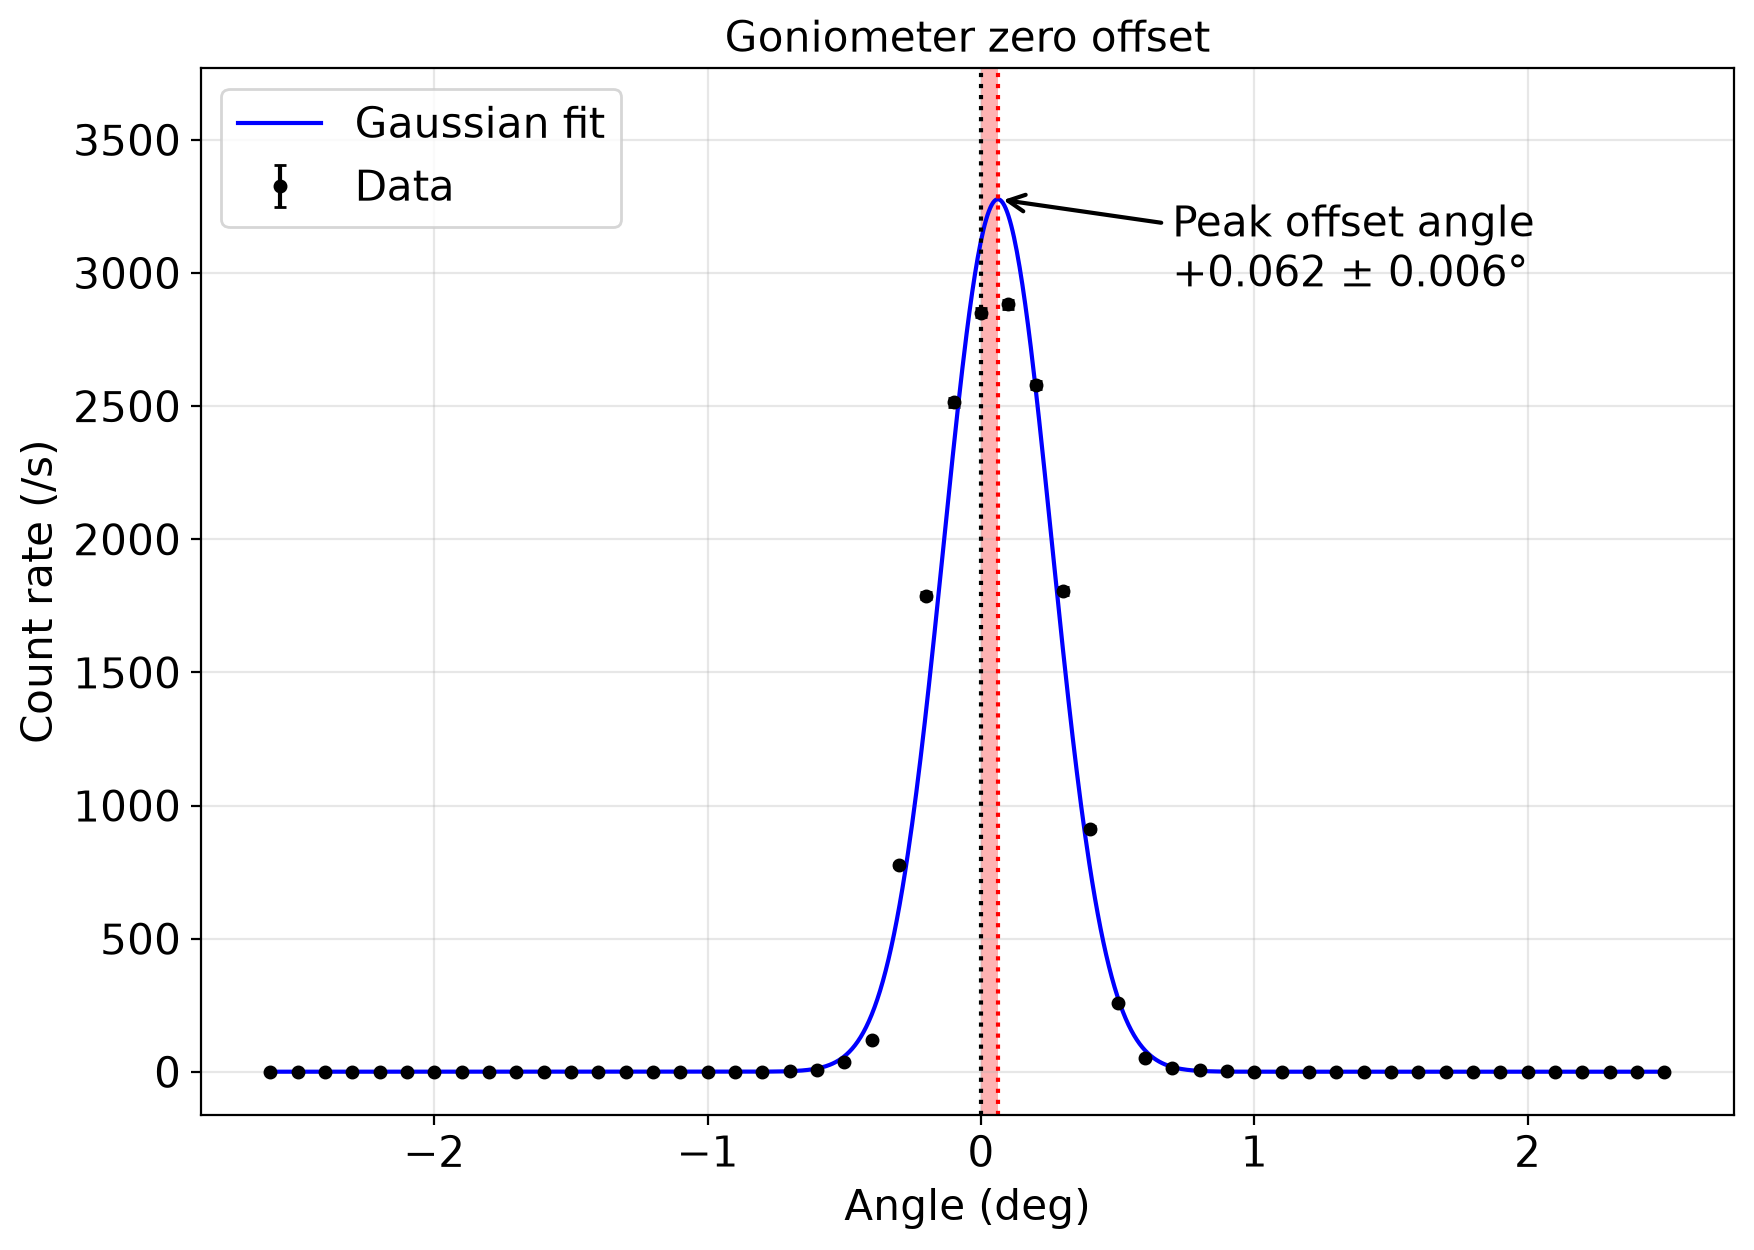
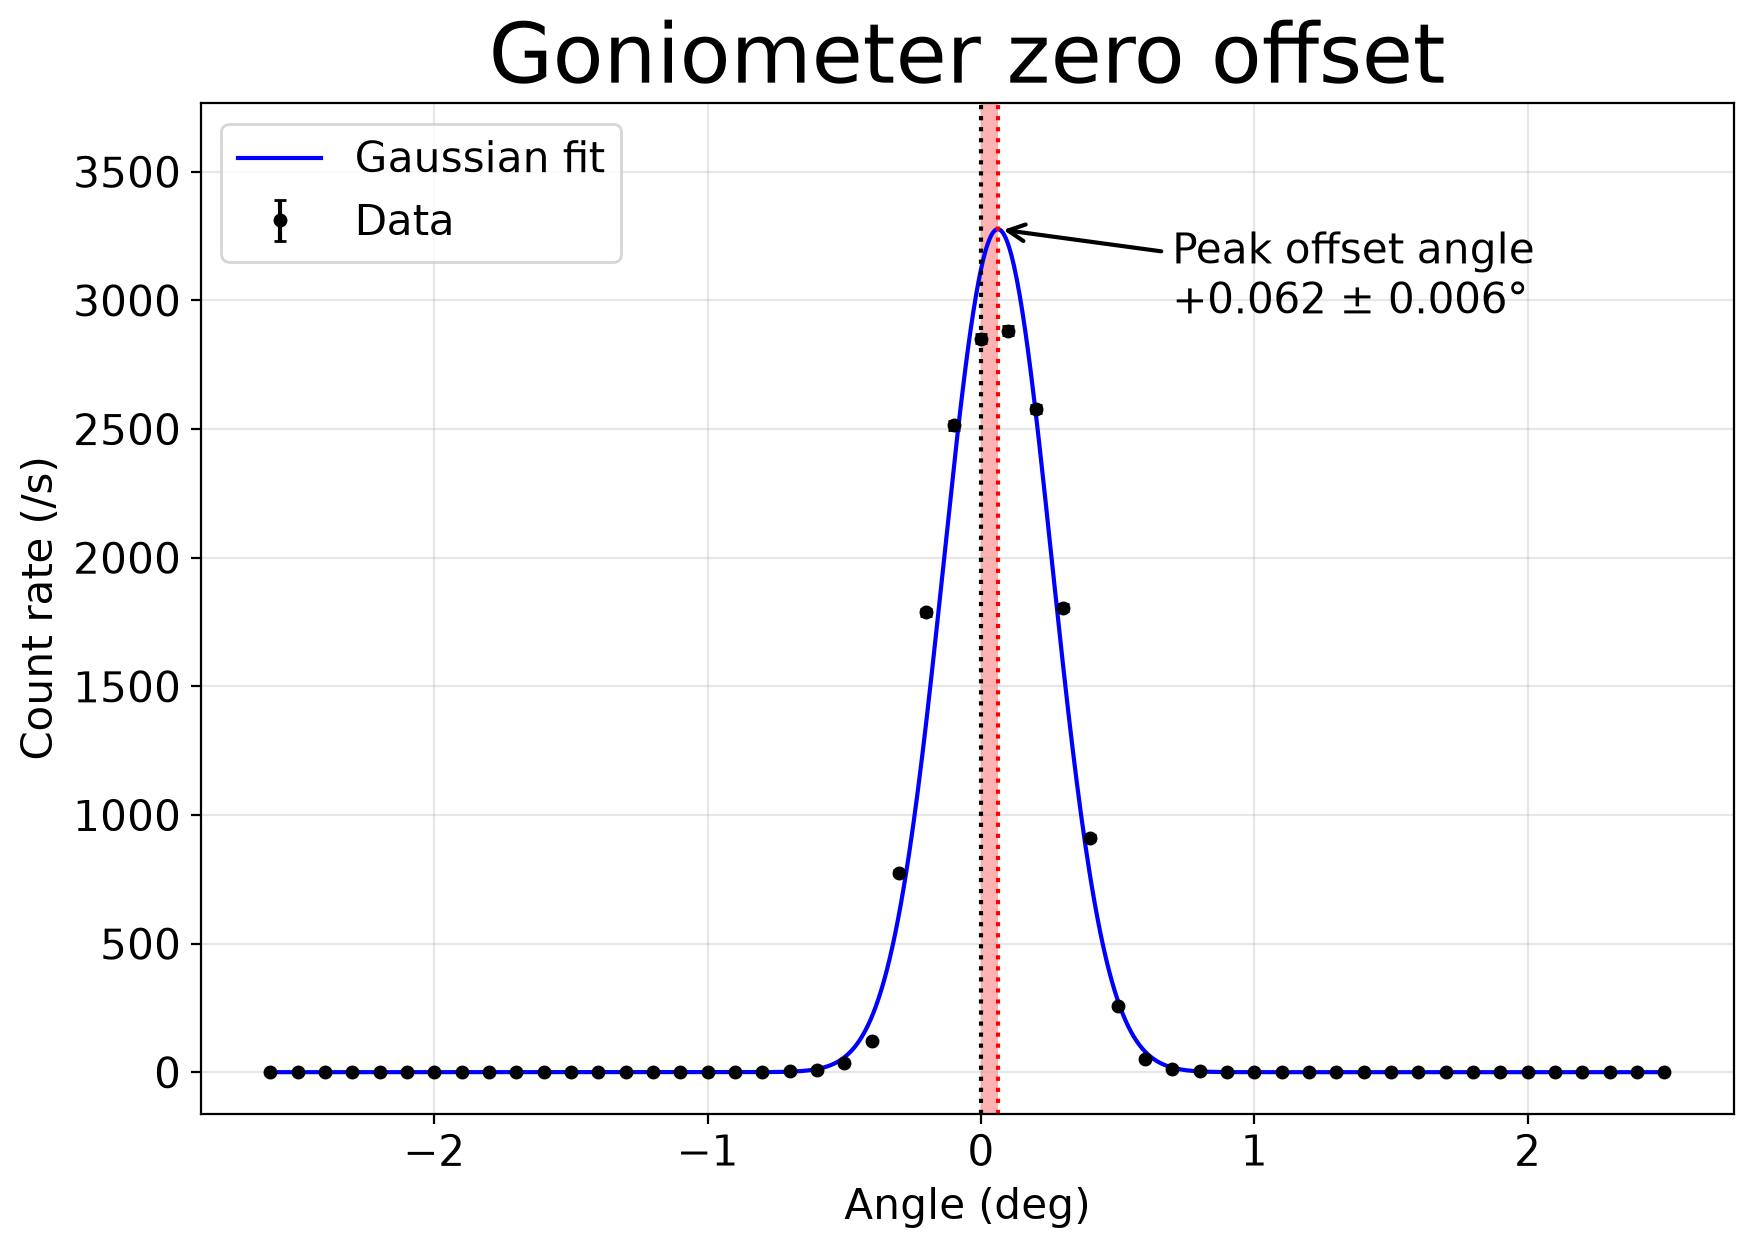
7.0

diff --git a/fits_copy.py b/fits_copy.py
@@ -581,11 +581,14 @@ voigt_chi2 = [{"one Voigt": chi2_dof(voigt, popt_1, peak),
                "two Gaussians": chi2_dof(two_gaussians_fixed_ratio, popt_2g[[0, 1, 4, 2]], peak)}
               for peak, (popt_1, _, popt_2, _), (popt_g, _, _), (popt_2g, _, _, _)
               in zip(peaks["nominal"], voigt_fits, gaussian_fits["nominal"], ratio_fits["nominal"])]
-# Reduced chi^2 of the two-line fits in the order they are plotted (all free, then I2/I1 fixed with a shared width),
-# with its expected scatter sqrt(2/dof)
+# Reduced chi^2 of each fit, with its expected scatter sqrt(2/dof): first the single-line fits (one Gaussian, one
+# Voigt; printed only, not plotted), then the two-line fits in the order they are plotted (all free, then I2/I1 fixed
+# with a shared width)
 for label, peak, (popt_free, _, _), chi2s in zip(order_labels, peaks["nominal"], two_gaussian_fits["nominal"],
                                                  voigt_chi2):
-    for name, (chi2, dof) in [("two Gaussians, all free", chi2_dof(two_gaussians, popt_free, peak)),
+    for name, (chi2, dof) in [("one Gaussian", chi2s["one Gaussian"]),
+                              ("one Voigt", chi2s["one Voigt"]),
+                              ("two Gaussians, all free", chi2_dof(two_gaussians, popt_free, peak)),
                               ("two Gaussians, I2/I1 fixed", chi2s["two Gaussians"]),
                               ("two Voigts, I2/I1 fixed", chi2s["two Voigts"])]:
         print(f"{label}, {name}: chi2/dof = {chi2:.1f}/{dof} = {chi2 / dof:.2f} +/- {np.sqrt(2 / dof):.2f}")

diff --git a/alignment_error.py b/alignment_error.py
@@ -1,6 +1,6 @@
 import numpy as np
 import matplotlib.pyplot as plt
-from save_figure import save_figure, report_style
+from save_figure import save_figure, calib_style
 from peak_overlay import (load, overlay_shift, shift_text, windows, first_order_region, figure_start,
                           plot_pair, shift_box_text)
 
@@ -38,7 +38,7 @@ if __name__ == "__main__":
     # The normal scan and the flipped one from 15.7 deg up, each with a Gaussian fit and its centre marked, neither
     # shifted, and the Kα n=1 overlay shift between them. The flipped crystal reflects much less (its corrected peak
     # is ~2.3x lower despite 1 vs 0.6 mA), so the normal scan is scaled to the flipped one's fitted peak height.
-    plt.rcParams.update(report_style)
+    plt.rcParams.update(calib_style)
     fig, gaussian_fits = plot_pair(normal, flipped, ["Normal (scaled to the same height)",
                                                      "Flipped 180° about beam axis"],
                                    (figure_start, first_order_region[1]),

diff --git a/temperature_error.py b/temperature_error.py
@@ -1,5 +1,5 @@
 import matplotlib.pyplot as plt
-from save_figure import save_figure, report_style
+from save_figure import save_figure, calib_style
 from peak_overlay import (load, overlay_shift, shift_text, windows, first_order_region, figure_start, tuesday_offset,
                           plot_pair, shift_box_text)
 
@@ -31,7 +31,7 @@ if __name__ == "__main__":
     # Both runs from 15.7 deg up, each with a Gaussian fit and its centre marked, unshifted and unscaled (same current
     # and dwell), and the Kα n=1 overlay shift between them. Angles are Tuesday's, before the angle fix, so the peaks
     # sit ~0.12 deg high.
-    plt.rcParams.update(report_style)
+    plt.rcParams.update(calib_style)
     fig, gaussian_fits = plot_pair(unheated, heated, ["Unheated", "Heated"],
                                    (figure_start, first_order_region[1] + tuesday_offset),
                                    shift_box_text("heated", "unheated", results["Kα n=1"]))

diff --git a/deadtime.py b/deadtime.py
@@ -2,7 +2,7 @@ from pathlib import Path
 import numpy as np
 import matplotlib.pyplot as plt
 from scipy.optimize import curve_fit
-from save_figure import save_figure, report_style
+from save_figure import save_figure, calib_style
 
 # Dead time of the GM tube from a tube-current scan (Cu anode, NaCl crystal, goniometer held at one angle).
 # The true photon rate is proportional to the emission current, N = k * I. A GM tube is blind for a time tau
@@ -57,7 +57,7 @@ if __name__ == "__main__":
 
     # Only the non-paralysable fit is drawn: the GM tube is self-quenching, so it is non-paralysable.
     # The paralysable fit and the linearised line are still printed above as cross-checks.
-    plt.rcParams.update(report_style)
+    plt.rcParams.update(calib_style)
     current_fine = np.linspace(0, current.max() * 1.05, 500)
     model, popt, perr, _ = fits["Non-paralysable"]
     fig, ax = plt.subplots(figsize=(9, 6.5))

diff --git a/angle_offset.py b/angle_offset.py
@@ -2,7 +2,7 @@ from pathlib import Path
 import numpy as np
 import matplotlib.pyplot as plt
 from scipy.optimize import curve_fit
-from save_figure import save_figure, report_style
+from save_figure import save_figure, calib_style
 from deadtime import tau, tau_err
 
 # Zero-angle offset of the goniometer from a direct-beam scan (Cu anode, no NaCl crystal).
@@ -81,7 +81,7 @@ if __name__ == "__main__":
 
     # Only the raw (not dead-time corrected) peak is drawn. Its Gaussian centre agrees with the corrected one to
     # 1e-4 deg, so the quoted beta_0 (from the corrected fit, with all its errors) is the offset of this peak too.
-    plt.rcParams.update(report_style)
+    plt.rcParams.update(calib_style)
     y_raw, sigma_raw, popt_raw, _, _ = fits["Raw"]
     centre_raw, peak_raw = popt_raw[1], gaussian(popt_raw[1], *popt_raw)
     beta_fine = np.linspace(beta.min(), beta.max(), 1000)

diff --git a/peak_overlay.py b/peak_overlay.py
@@ -117,7 +117,7 @@ def fit_gaussian(scan, span):
 # other scan red), a dotted line through each fitted centre with the gap between them shaded red (as in calib_2), and
 # a text box with offset_text. With scale_reference the reference (points and fit) is scaled to the other scan's
 # fitted peak height, for scans of different intensity; only the peak positions matter here.
-# Text sizes come from report_style in save_figure.py. Returns the figure and each scan's (popt, perr).
+# Text sizes come from calib_style in save_figure.py. Returns the figure and each scan's (popt, perr).
 def plot_pair(reference, scan, labels, span, offset_text, scale_reference=False):
     fits = [fit_gaussian(one_scan, span) for one_scan in (reference, scan)]
     peak_heights = [gaussian(popt[1], *popt) for popt, _ in fits]

diff --git a/save_figure.py b/save_figure.py
@@ -12,6 +12,8 @@ report_text_size = 15  # pt
 report_style = {key: report_text_size for key in ["font.size", "axes.titlesize", "axes.labelsize", "xtick.labelsize",
                                                   "ytick.labelsize", "legend.fontsize", "legend.title_fontsize",
                                                   "figure.titlesize"]}
+# The calibration figures (calib_1 to calib_4) are the exception: their titles are double the report size.
+calib_style = {**report_style, "axes.titlesize": 2 * report_text_size}
 
 
 def save_figure(name, fig=None):
